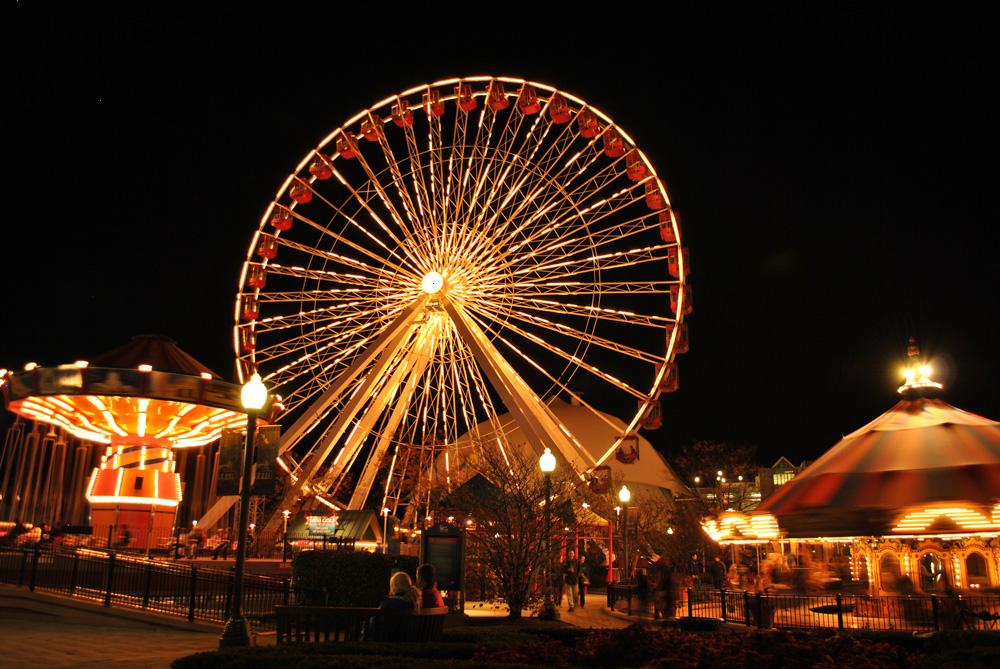
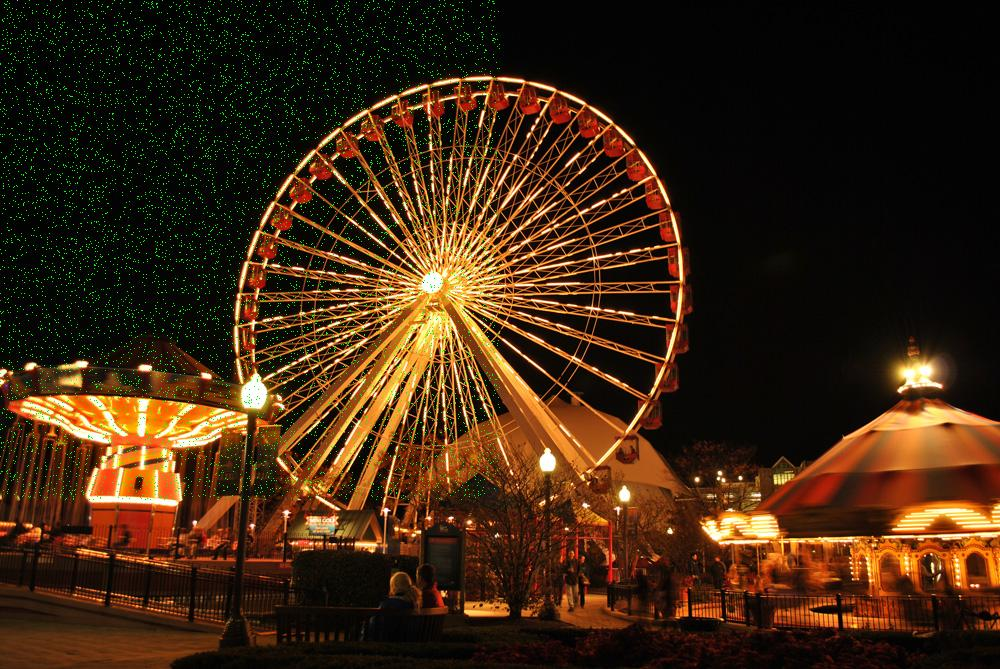
color lab

diff --git a/ColorLabs17/TestPicture17.java b/ColorLabs17/TestPicture17.java
@@ -29,7 +29,7 @@ public class TestPicture17
      
      //KNOW IT FOR THE TEST!!!!!
      //relative path
-     /**/
+     /*
       
      Picture apic = new Picture("images\\beach.jpg");
      Picture ferris1 = new Picture("images/2000 ferris wheel2.jpg");
@@ -37,25 +37,95 @@ public class TestPicture17
      Picture ferris3 = new Picture("images/2000 ferris wheel2.jpg");
 
      //apic.explore(); //DISPLAY PIC
-     ferris1.explore();
-     //moto.explore();
+     //ferris1.explore();
+     //moto.explore()
+     /**/
+     Picture snow = new Picture("images\\snowman.jpg");
+     Picture snow1 = new Picture("images\\snowman.jpg");
+     Picture snow2 = new Picture("images\\snowman.jpg");
+     Picture snow3 = new Picture("images\\snowman.jpg");
+     Picture snow4 = new Picture("images\\snowman.jpg");
+     snow.explore();
+     //changes color
+     Pixel[] Spixels;
+     Spixels = snow1.getPixels();
+     int red, blue, green;
+     for (Pixel spot1: Spixels)
+     {
+         red = spot1.getRed();
+         red = (int)(red * 2);
+         spot1.setRed(red);
+         
+         blue = spot1.getBlue();
+         blue = (int)(blue * 2);
+         spot1.setBlue(blue);
+         
+         green = spot1.getGreen();
+         green = (int)(green * 2);
+         spot1.setGreen(green);
+     }
+     snow1.explore();
+         
+     //makes it the opposite color, negates it
+     Spixels = snow2.getPixels();
+     for (Pixel spot1: Spixels)
+     {
+         red = spot1.getRed();
+         red = (int)(255 - red);
+         spot1.setRed(red);
+         
+         blue = spot1.getBlue();
+         blue = (int)(255- blue);
+         spot1.setBlue(blue);
+         
+         green = spot1.getGreen();
+         green = (int)(255 - green);
+         spot1.setGreen(green);
+     }
+     snow2.explore();
+     // makes it grayscale
+     Spixels = snow3.getPixels();
+     int avg;
+     for (Pixel spot1: Spixels)
+     {
+         red = spot1.getRed();
+         red = (int)(red * Math.random());
+         
+         blue = spot1.getBlue();
+         blue = (int)(blue * Math.random());
+         
+         green = spot1.getGreen();
+         green = (int)(green * Math.random());
+         
+         avg = (red+blue+green) / 3;
+         
+         spot1.setRed(avg);
+         spot1.setBlue(avg);
+         spot1.setGreen(avg);
+
+     }
+     snow3.explore();
+     
      
      
      //to change color of pic get all the pixels
      //makes an array of pixels
-     Pixel[] pixels;
+     //Pixel[] pixels;
      //gets pixels from picture and assigns to pixels array
      //need to repeat for every picture
-     pixels = ferris1.getPixels();
-    
+     //pixels = ferris1.getPixels();
+     
+     
+     //Pixel[] Mpixels;
+    // Mpixels = moto.getPixels();
      //how many pixels or how large array
-    System.out.println("This is a large array "+pixels.length  );
+    //System.out.println("This is a large array "+pixels.length  );
 
 
-    /**/
+    /*
         //access each index
     System.out.println(pixels[17]);
-    //access each pixel
+    //access each pixel 
     Pixel spot = ferris1.getPixel(100,100);
     Pixel spot2 = ferris1.getPixel(423,282);
     Pixel ferr17 = pixels[17];
@@ -78,7 +148,7 @@ public class TestPicture17
     
     for (int i = 0; i<10000; i++)
     {
-        Pixel yuck = ferris1.getPixel((int)(Math.random()*200),(int)(Math.random()*200));
+        Pixel yuck = ferris1.getPixel((int)(Math.random()*500),(int)(Math.random()*500));
         yuck.setColor(Color.green);
     }
     ferris1.explore();
@@ -92,10 +162,31 @@ public class TestPicture17
    // loop to access indexes of array or collection
 
     //for each loop spot  is a ?
-    for (Pixel spot : pixels)
-    System.out.println( spot );
+    int red;
+    for (Pixel spot1 : Mpixels)
+    {
+        //System.out.println( spot1 );
+        red = spot1.getRed();
+        
+        red = (int)(red * .25);
+    
+        spot1.setRed(red);
+    }
+    moto.explore();
 
-
+    int blue, green;
+    for (Pixel spot1: Mpixels)
+    {
+        blue = spot1.getBlue();
+        blue = (int)(blue * Math.random());
+        
+        green = spot1.getGreen();
+        green = (int)(green * Math.random());
+        
+        spot1.setBlue(blue);
+        spot1.setGreen(green);
+    }
+    moto.explore();
    
  /**/
 
@@ -143,7 +234,7 @@ final double  FACTOR = .5;
 
   /**/ 
     //write/save a picture as a file
-    ferris1.write("images/ferris11.jpg");
+    //ferris1.write("images/ferris11.jpg");
 
     /**/
   }//main
